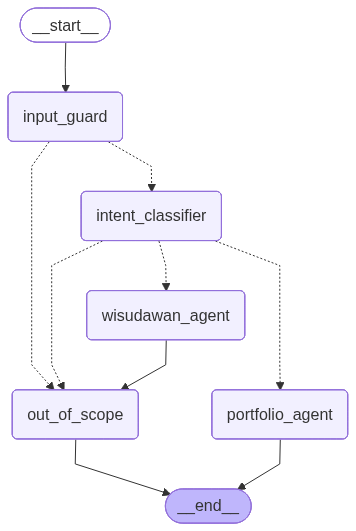
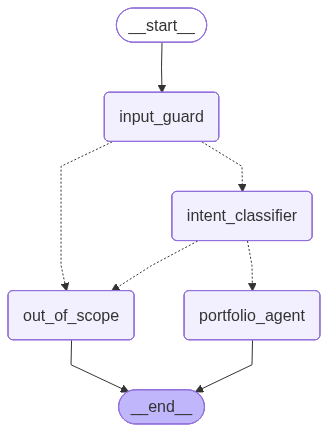
feat:temporary disable wisudawan domain

diff --git a/agent/state.py b/agent/state.py
@@ -4,7 +4,7 @@ from enum import Enum
 import operator
 from pydantic import BaseModel, Field
 from langgraph.graph import MessagesState
-from core.scope import UserScope, UserRole
+from core.scope import UserScope
 
 class QueryType(str, Enum):
     DATA_LOOKUP          = "data_lookup"
@@ -102,18 +102,18 @@ class AgentState(MessagesState):
     effective_query: str
     domain: Optional[AgentDomain]
     query_type: Optional[QueryType]
-    plan: list[dict] = Field(default_factory=list)
-    current_step_index: int = 0
-    steps_completed: Annotated[list[StepResult], operator.add] = Field(default_factory=list)
-    reasoning_history: Annotated[list[str], operator.add] = Field(default_factory=list)
+    plan: list[dict]
+    current_step_index: int
+    steps_completed: Annotated[list[StepResult], operator.add]
+    reasoning_history: Annotated[list[str], operator.add]
 
     # -- Memory --
-    conversation_summary: Optional[str] = None
-    session_entities: Optional[dict] = None
+    conversation_summary: Optional[str]
+    session_entities: Optional[dict]
 
     # -- Input Processing --
-    content_filter_result: Optional[str] = None
-    extracted_keywords: Optional[list[str]] = None
+    content_filter_result: Optional[str]
+    extracted_keywords: Optional[list[str]]
 
     # -- Data Context --
     chart_context: Optional[ChartContext]
@@ -121,30 +121,30 @@ class AgentState(MessagesState):
     relevant_tables: Optional[list[str]]
     schema_context: Optional[str]
 
-    generated_sql: Optional[str] = None
-    validation_status: Optional[ValidationStatus] = None
-    validation_errors: Annotated[list[str], operator.add] = Field(default_factory=list)
-    sql_result: Optional[list[dict]] = None
-    sql_error: Optional[str] = None
-    sql_row_count: Optional[int] = None
+    generated_sql: Optional[str]
+    validation_status: Optional[ValidationStatus]
+    validation_errors: Annotated[list[str], operator.add]
+    sql_result: Optional[list[dict]]
+    sql_error: Optional[str]
+    sql_row_count: Optional[int]
 
     # -- RAG Execution --
-    rag_query: Optional[str] = None
-    rag_chunks: Optional[list[dict]] = None
-    rag_source_types: Optional[list[str]] = None
-    rag_tipe_konten: Optional[list[str]] = None
-    rag_scope_override: Optional[dict] = None
-    rag_attempt_count: int = 0
-    rag_confidence: Optional[float] = None
-    rag_action: Optional[str] = None
-    rag_refined_query: Optional[str] = None
+    rag_query: Optional[str]
+    rag_chunks: Optional[list[dict]]
+    rag_source_types: Optional[list[str]]
+    rag_tipe_konten: Optional[list[str]]
+    rag_scope_override: Optional[dict]
+    rag_attempt_count: int
+    rag_confidence: Optional[float]
+    rag_action: Optional[str]
+    rag_refined_query: Optional[str]
 
     # -- Faithfulness --
-    faithfulness_score: Optional[float] = None
-    faithfulness_action: Optional[str] = None
+    faithfulness_score: Optional[float]
+    faithfulness_action: Optional[str]
 
-    answer_is_valid: Optional[bool] = None
-    next_step: Optional[str] = None
+    answer_is_valid: Optional[bool]
+    next_step: Optional[str]
 
     # -- Final Output --
     formatted_response: Optional[FormattedResponse]

diff --git a/agent/utils/visualize_all_graphs.py b/agent/utils/visualize_all_graphs.py
@@ -1,26 +1,13 @@
 import os
 from agent.orchestrator import main_graph
 from agent.graph import portfolio_graph
-from agent.tools.sql import build_sql_pipeline
-from agent.nodes.sql_pipeline import (
-    _portfolio_entity_resolver,
-    _portfolio_few_shot_examples,
-    load_schema_context,
-    SCHEMA_LINKER_SYSTEM_PROMPT,
-)
+from agent.nodes.sql_pipeline import _portfolio_sql_pipeline
 from core.config import settings
 
 def main():
-    # 1. Build the SQL Pipeline subgraph dynamically
-    print("Compiling SQL Pipeline subgraph...")
-    sql_pipeline_graph = build_sql_pipeline(
-        schema_linker_prompt=SCHEMA_LINKER_SYSTEM_PROMPT,
-        entity_resolver=_portfolio_entity_resolver,
-        few_shot_examples=_portfolio_few_shot_examples,
-        schema_context=load_schema_context(),
-        default_table="v_akademik_kelas",
-        max_attempts=settings.MAX_SQL_ATTEMPTS,
-    )
+    # 1. Use the existing SQL Pipeline subgraph
+    print("Loading SQL Pipeline subgraph...")
+    sql_pipeline_graph = _portfolio_sql_pipeline
 
     # Ensure output directory exists
     output_dir = "diagram"
@@ -36,7 +23,7 @@ def main():
     # 3. Draw Main Orchestrator Graph with X-Ray (subgraphs expanded!)
     print("Generating main_graph_xray.png...")
     try:
-        main_xray_png = main_graph.get_graph(xray=True).draw_mermaid_png()
+        main_xray_png = main_graph.get_graph(xray=1).draw_mermaid_png()
         with open(os.path.join(output_dir, "main_graph_xray.png"), "wb") as f:
             f.write(main_xray_png)
     except Exception as e:

diff --git a/agent/orchestrator.py b/agent/orchestrator.py
@@ -2,7 +2,7 @@ import logging
 from langgraph.graph import StateGraph, END
 from agent.state import AgentState
 from agent.graph import portfolio_graph
-from agent.wisudawan_graph import wisudawan_graph
+# from agent.wisudawan_graph import wisudawan_graph
 from agent.nodes.input_guard import input_guard, route_after_input_guard
 from agent.nodes.intent_classifier import intent_classifier, route_after_intent
 from agent.nodes.synthesizer import synthesizer
@@ -22,7 +22,7 @@ class AgentOrchestrator:
         g.add_node("input_guard", input_guard)
         g.add_node("intent_classifier", intent_classifier)
         g.add_node("portfolio_agent", portfolio_graph)
-        g.add_node("wisudawan_agent", wisudawan_graph)
+        # g.add_node("wisudawan_agent", wisudawan_graph)
         g.add_node("out_of_scope", synthesizer)
         
         g.set_entry_point("input_guard")
@@ -33,12 +33,12 @@ class AgentOrchestrator:
         
         g.add_conditional_edges("intent_classifier", route_after_intent, {
             "portfolio_agent": "portfolio_agent",
-            "wisudawan_agent": "wisudawan_agent",
+            # "wisudawan_agent": "wisudawan_agent",
             "out_of_scope": "out_of_scope",
         })
         
         g.add_edge("portfolio_agent", END)
-        g.add_edge("wisudawan_agent", END)
+        # g.add_edge("wisudawan_agent", END)
         g.add_edge("out_of_scope", END)
         
         logger.info("Compiling the main orchestrator StateGraph...")

diff --git a/agent/tools/sql/tool.py b/agent/tools/sql/tool.py
@@ -225,16 +225,6 @@ class SQLTool:
             if not (is_select or is_cte):
                 raise ValueError("Query must be a SELECT statement.")
                 
-            # AST Scope Validation: ensuring {SCOPE_FILTER} is used if any protected table is queried
-            # tables = [t.name.lower() for t in parsed.find_all(exp.Table) if t.name]
-            # protected_tables = [t for t in tables if t not in UserScope.LOOKUP_TABLES]
-            
-            # if protected_tables and "{SCOPE_FILTER}" not in generated_sql:
-            #     return {
-            #         "validation_status": "fail", 
-            #         "error": "Missing {SCOPE_FILTER} placeholder for protected tables.", 
-            #         "error_type": "security_violation"
-            #     }
         except Exception as e:
             return {"validation_status": "fail", "error": f"SQL Parse Error: {str(e)}", "error_type": "parse_error"}
 

diff --git a/agent/nodes/intent_classifier.py b/agent/nodes/intent_classifier.py
@@ -52,6 +52,6 @@ def route_after_intent(state: AgentState) -> str:
     logger.info(f"Routing logic determined domain is: {domain}")
     if domain == "portfolio":
         return "portfolio_agent"
-    elif domain == "wisudawan":
-        return "wisudawan_agent"
+    # elif domain == "wisudawan":
+    #     return "wisudawan_agent"
     return "out_of_scope"
